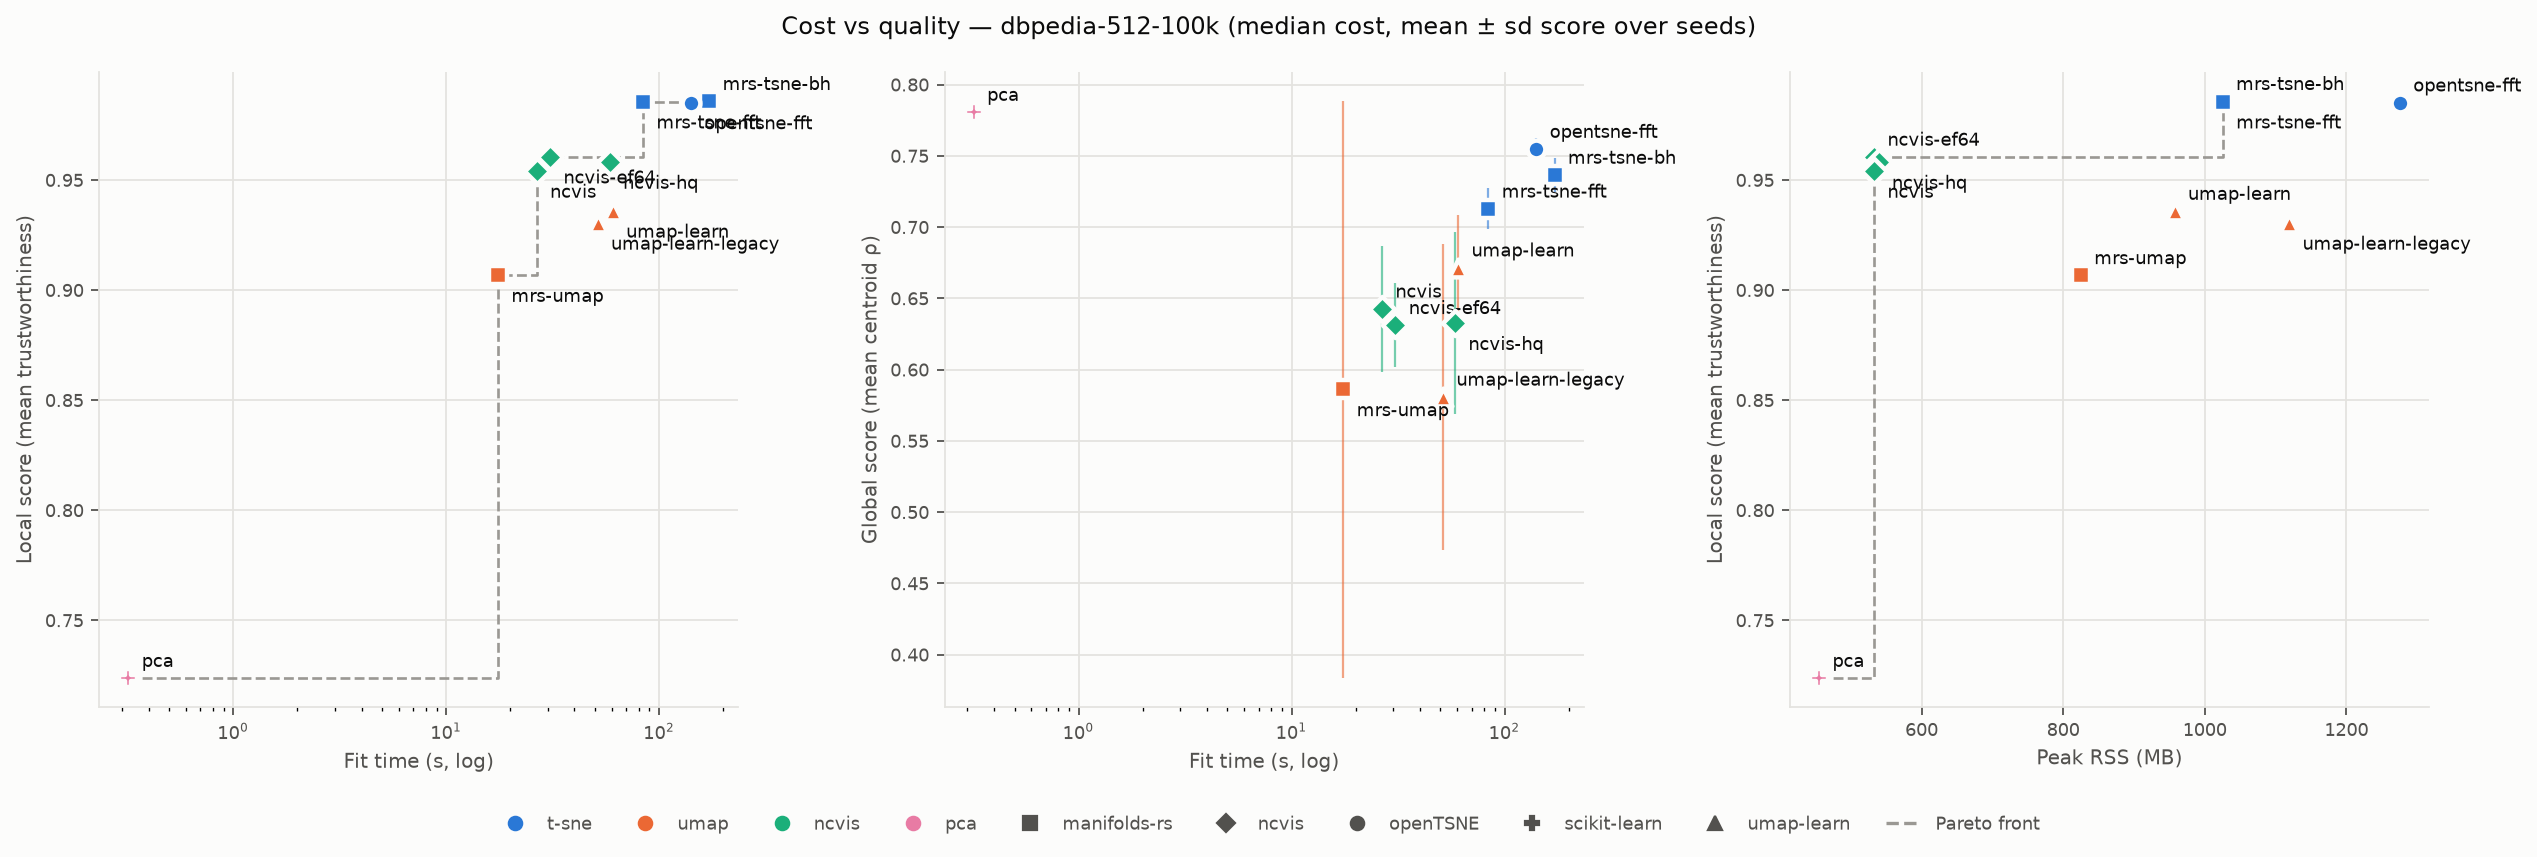
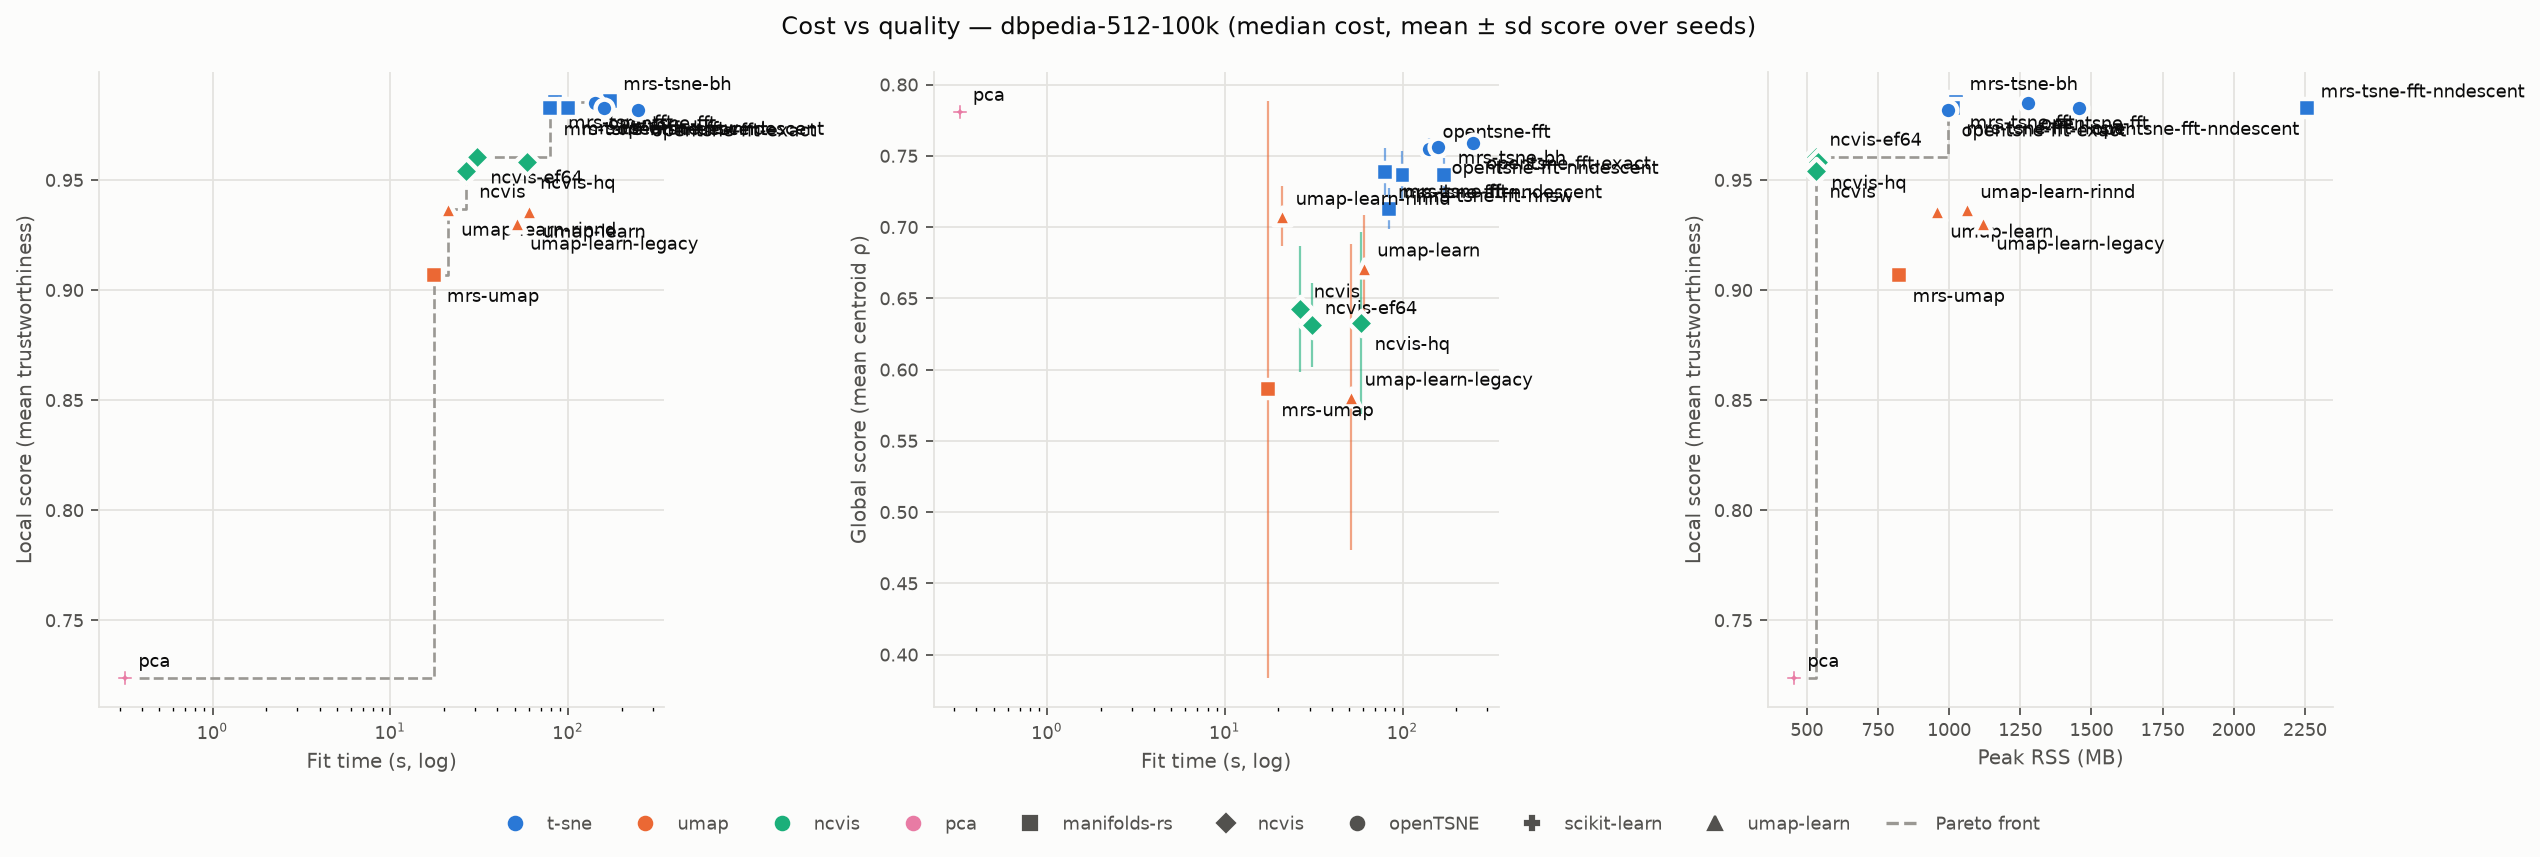
Update results with the kNN-backend variants
Adds opentsne-fft-nndescent, opentsne-fft-exact, mrs-tsne-fft-nndescent,
mrs-tsne-fft-hnsw and umap-learn-rinnd (3 seeds, dbpedia-512-100k).

Known flaw: the fit times of umap-learn (60.5 s) and umap-learn-legacy (51.4 s) include about
40 s of PyNNDescent numba JIT, because the 2000-row warm-up stayed below umap-learn's 4096-row
threshold for the approximate path. They are not re-recorded (a fresh-process check gives about
23 s for umap-learn). Quality scores and all other timings are unaffected. See issue #1.

diff --git a/results/REPORT.md b/results/REPORT.md
@@ -1,6 +1,6 @@
 # Dimensionality reduction benchmark
 
-Generated 2026-11-16 · 8 threads · seeds [0, 1, 2]
+Generated 2026-11-17 · 8 threads · seeds [0, 1, 2]
 
 **local** = mean trustworthiness over k ∈ [5, 15, 30]; **global** = mean Spearman ρ of k-means centroid distances over k ∈ [5, 15, 30]. T = trustworthiness, C = continuity. Cost = median over seeds; scores = mean ± sd.
 
@@ -11,9 +11,14 @@ Generated 2026-11-16 · 8 threads · seeds [0, 1, 2]
 | mrs-tsne-bh | manifolds-rs | 171.8 | 1025 | 0.9859 ± 0.0001 | 0.7367 ± 0.0118 | 0.9921 | 0.9856 | 0.9799 | 0.9571 | 0.9448 | 0.9351 | 0.3114 | 0.2694 | 3/0 |
 | mrs-tsne-fft | manifolds-rs | 84.0 | 1025 | 0.9856 ± 0.0002 | 0.7130 ± 0.0145 | 0.9910 | 0.9854 | 0.9803 | 0.9570 | 0.9447 | 0.9350 | 0.2989 | 0.2727 | 3/0 |
 | opentsne-fft | openTSNE | 141.1 | 1276 | 0.9852 ± 0.0001 | 0.7549 ± 0.0079 | 0.9916 | 0.9849 | 0.9790 | 0.9566 | 0.9447 | 0.9352 | 0.3058 | 0.2909 | 3/0 |
+| mrs-tsne-fft-hnsw | manifolds-rs | 99.3 | 1014 | 0.9829 ± 0.0001 | 0.7363 ± 0.0175 | 0.9898 | 0.9826 | 0.9763 | 0.9587 | 0.9447 | 0.9343 | 0.3022 | 0.2839 | 3/0 |
+| opentsne-fft-nndescent | openTSNE | 158.6 | 1456 | 0.9826 ± 0.0001 | 0.7561 ± 0.0014 | 0.9906 | 0.9823 | 0.9750 | 0.9591 | 0.9449 | 0.9345 | 0.3107 | 0.2897 | 3/0 |
+| mrs-tsne-fft-nndescent | manifolds-rs | 79.2 | 2259 | 0.9825 ± 0.0001 | 0.7391 ± 0.0162 | 0.9896 | 0.9822 | 0.9757 | 0.9586 | 0.9446 | 0.9342 | 0.3023 | 0.2861 | 3/0 |
+| opentsne-fft-exact | openTSNE | 248.3 | 997 | 0.9819 ± 0.0002 | 0.7592 ± 0.0057 | 0.9904 | 0.9816 | 0.9739 | 0.9588 | 0.9443 | 0.9337 | 0.3113 | 0.2935 | 3/0 |
 | ncvis-ef64 | ncvis | 30.7 | 533 | 0.9606 ± 0.0013 | 0.6312 ± 0.0295 | 0.9618 | 0.9608 | 0.9591 | 0.9503 | 0.9416 | 0.9296 | 0.1458 | 0.2091 | 3/0 |
 | ncvis-hq | ncvis | 58.6 | 539 | 0.9582 ± 0.0005 | 0.6325 ± 0.0638 | 0.9594 | 0.9584 | 0.9567 | 0.9515 | 0.9430 | 0.9304 | 0.1459 | 0.2136 | 3/0 |
 | ncvis | ncvis | 26.6 | 533 | 0.9541 ± 0.0008 | 0.6428 ± 0.0442 | 0.9551 | 0.9544 | 0.9528 | 0.9373 | 0.9284 | 0.9165 | 0.1420 | 0.2143 | 3/0 |
+| umap-learn-rinnd | umap-learn | 21.1 | 1063 | 0.9368 ± 0.0009 | 0.7079 ± 0.0212 | 0.9385 | 0.9370 | 0.9350 | 0.9565 | 0.9417 | 0.9295 | 0.1126 | 0.2751 | 3/0 |
 | umap-learn | umap-learn | 60.5 | 957 | 0.9360 ± 0.0019 | 0.6717 ± 0.0367 | 0.9375 | 0.9361 | 0.9342 | 0.9571 | 0.9422 | 0.9300 | 0.1123 | 0.2751 | 3/0 |
 | umap-learn-legacy | umap-learn | 51.4 | 1119 | 0.9305 ± 0.0011 | 0.5810 ± 0.1073 | 0.9319 | 0.9307 | 0.9289 | 0.9596 | 0.9455 | 0.9330 | 0.1126 | 0.2354 | 3/0 |
 | mrs-umap | manifolds-rs | 17.5 | 825 | 0.9068 ± 0.0018 | 0.5861 ± 0.2025 | 0.9087 | 0.9069 | 0.9048 | 0.9612 | 0.9451 | 0.9325 | 0.0974 | 0.2602 | 3/0 |
